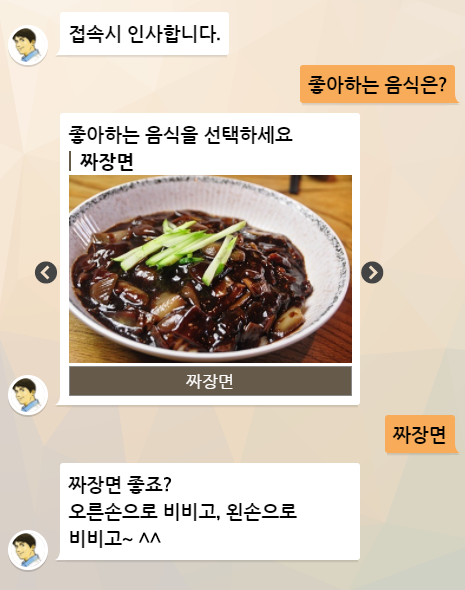
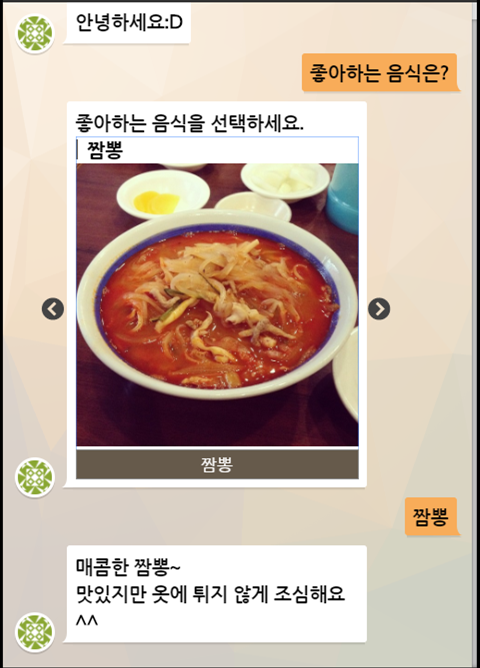
carousel 내용 수정 및 채널 제약사항 설명 추가

diff --git a/pages/danbeeDoc/channel_connection_settings.md b/pages/danbeeDoc/channel_connection_settings.md
@@ -131,3 +131,16 @@ next: {
     </div>
 </div>
 
+## 채널 별 제약사항
+채널 별로 환경이 다르기 때문에 몇 가지 제약사항이 존재합니다.
+
+| 기능 | 설명 | 사용 제한 채널 | 비고 |
+|--------|-------|-------|------|
+| 버튼 | 버튼 기능을 사용할 수 있다. | 카카오톡, 텔레그램 | 카카오톡 : 전화걸기 불가, link 버튼 1개로 제한<br/>텔레그램 : 전화걸기 버튼 사용 불가|
+| 캐로셀 카드 | 카드 형태 메세지를 사용할 수 있다. | 카카오톡, 텔레그램 | 최상단 버튼 set 및 질문메세지만 제공 |
+| 다건 메세지 연속 전송 | 여러 메세지를 동시에 전송할 수 있다. | 카카오톡 | 하나의 메세지로 합쳐서 제공 |
+| 사용자 정보 | 사용자 정보를 활용할 수 있다. | Frogue, 카카오톡, 텔레그램,<br/> 네이버톡톡  | 사용 불가 |
+
+해당 제약사항은 대화채널 설정 화면에서 간결한 아이콘으로 확인할 수 있습니다.
+
+

diff --git a/pages/danbeeDoc/channel_facebook.md b/pages/danbeeDoc/channel_facebook.md
@@ -94,7 +94,7 @@ danbee.Ai에서는 Facebook Messenger 하단 입력창 옆에 위치한 Facebook
 고정메뉴는 채널 연결시 뜨는 팝업 하단 사용자 고정 메뉴 설정 블락에서 설정하실 수 있습니다.
 
 #### 메인 메뉴
-메인 메뉴는 최대 3개까지 설정이 가능하나 **'시작하기'** 및 **'danbee.Ai로 만든 봇'** 메뉴는 변경할 수 없습니다.<br/>
+**메인 메뉴**는 **최대 3개**까지 설정이 가능하나 **'시작하기'** 및 **'danbee.Ai로 만든 봇'** 메뉴는 변경할 수 없습니다.<br/>
 
 {% include image.html file="channel/facebook/facebook_menu_setting_01.png" max-width="900" caption="Facebook 메인 메뉴 설정" %} 
 
